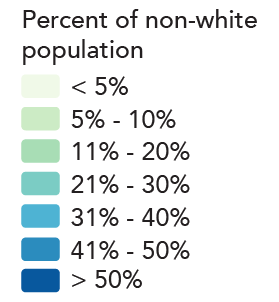
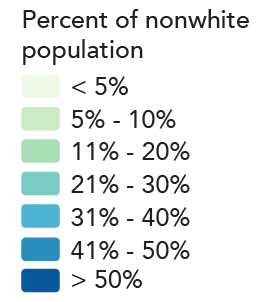
update

Changed region(s): [[0.6595, 0.0298, 0.9176, 0.0894]]

diff --git a/js/main.js b/js/main.js
@@ -1256,11 +1256,290 @@ function loadNonWhite() {
 			var whiteField = 'NONWHT_';
 			var whiteVar = tooltip[whiteField + timestamp];
 			var whiteVar_format = whiteVar*100;
+			//create variable for html to show in tooltip, bind popup on click
+			var popupHTML = "Nonwhite: "+whiteVar_format.toFixed(2)+"%";
+			feature.bindPopup(popupHTML);
+			//style for hover functionality
+			feature.on({
+				mouseover: function(){
+					feature.setStyle({"fillOpacity":"0.5", "opacity":"0.5"}); 			
+				},
+				mouseout: function(){
+					feature.setStyle({"fillOpacity":"0", "opacity":"0"}); 					
+				}
+			});
+      	});
+     });
+	//function that updates the data reflected in the tooltips
+	function updateTooltips(){
+		//test for projected years, define different tooltip data
+		if (timestamp==2020){
+			cTract.eachLayer(function(feature){
+            //define style of initial view
+              feature.setStyle({
+              	fillColor:'white',
+                fillOpacity:'0',
+                color: 'white',
+                weight: '0.5',
+                opacity: '0'
+            });
+			//define function that forces the popup to close and is not activated for projected years
+			feature.closePopup();
+			feature.unbindPopup();
+			//style for hover functionality
+			feature.on({
+				mouseover: function(){
+					feature.setStyle({"fillOpacity":"0", "opacity":"0"}); 			
+				},
+				mouseout: function(){
+					feature.setStyle({"fillOpacity":"0", "opacity":"0"}); 					
+				}
+			});
+			
+      		});
+      	//tooltip style for non-projected years	
+		}else{
+		
+			cTract.eachLayer(function(feature){
+	            //define style of initial view
+	            feature.setStyle({
+	            	fillColor:'white',
+	                fillOpacity:'0',
+	                color: 'white',
+	                weight: '0.5',
+	                opacity: '0'
+	            });
+				
+				//define path to geojson field names
+							var tooltip = feature.toGeoJSON().properties;
+			//create variable for short version of year
+			var year = timestamp.toString().substr(2,2);
+			//call ownership field and create variable and format for tooltip
+			var whiteField = 'NONWHT_';
+			var whiteVar = tooltip[whiteField + timestamp];
+			var whiteVar_format = whiteVar*100;
+			//create variable for html to show in tooltip, bind popup on click
+			var popupHTML = "Nonwhite: "+whiteVar_format.toFixed(2)+"%";
+				feature.bindPopup(popupHTML);
+				//style for hover functionality
+				feature.on({
+					mouseover: function(){
+						feature.setStyle({"fillOpacity":"0.5", "opacity":"0.5"}); 			
+					},
+					mouseout: function(){
+						feature.setStyle({"fillOpacity":"0", "opacity":"0"}); 					
+					}
+				});
+	      	});
+		}
+	}
+	//define hex bin style
+	function setStyle(){
+		//call layer and define style for each hex
+		nonwhiteLayer.eachLayer(function(layer){
+			//define short version of geojson field names		
+			var attr = layer.feature.properties;
+			//default color
+			layer.setStyle({
+				weight: 1,
+				color: 'rgba(255,255,255,1)',
+				fillOpacity: 1
+			});
+			//define vulnerability field in order to define classes for styling
+			var nonWhiteField= 'NONWHT_';
+			//conditional statement for hex bin color classification					
+			if(attr[nonWhiteField + timestamp] > 0.5){
+				layer.setStyle({
+					fillColor:"rgb(8,88,158)"
+				}); 
+			}else if(attr[nonWhiteField + timestamp] > 0.4){
+				layer.setStyle({
+					fillColor:"rgb(43,140,190)"
+				}); 
+			}else if(attr[nonWhiteField + timestamp] > 0.3){
+				layer.setStyle({
+					fillColor:"rgb(78,179,211)"
+				});
+			}else if(attr[nonWhiteField + timestamp] > 0.2){
+				layer.setStyle({
+					fillColor:"rgb(123,204,196)"
+				});
+			}else if(attr[nonWhiteField + timestamp] > 0.1){
+				layer.setStyle({
+					fillColor:"rgb(168,221,181)"
+				});	
+			}else if(attr[nonWhiteField + timestamp] >= 0.05){
+				layer.setStyle({
+					fillColor:"rgb(204,235,197)"
+				});
+			}else if(attr[nonWhiteField + timestamp] < 0.05){
+				layer.setStyle({
+					fillColor:"rgb(240,249,232)"
+				});
+						  
+			}else{
+
+			}
+			
+		});
+	}//end setStyle function
+
+	//load buttons on map (reset css display setting)
+	$("#vcr-controls").css("display","initial");
+	$("#slider").css("display","initial");
+	$("#year-label").css("display","initial");
+	$("#homeButton").css("display","initial");
+	$("#map-menu").css("display","initial");
+
+	//update values for slider
+	skipSlider.noUiSlider.updateOptions({
+		animate: true,
+		animationDuration: 3000,
+		range: {
+			'min': 1990,
+			//skip
+			'30%': 2000,
+			//skip
+			'56%': 2009,
+			'60%': 2010,
+			'64%': 2011,
+			'68%': 2012,
+			'72%': 2013,
+			'76%': 2014,
+			//'80%': 2015,
+			//'84%': 2016,
+			//'88%': 2017,
+			//'92%': 2018,
+			//'96%': 2019,
+			'max': 2020
+		},
+		snap: true,
+		start: [1990],
+		format: wNumb({
+			decimals: 0
+		})
+	});
+	//link slider values to year label html element
+	skipValues = [
+		document.getElementById('year-label'),
+	];
+	//define slider functionality
+	skipSlider.noUiSlider.on('update', function( values, handle ) {
+		//link timestamp to slider value
+		timestamp=Number(values[handle]);
+		skipValues[handle].innerHTML = values[handle];
+		//define style and tooltip data when user moves slider
+		setStyle();
+		updateTooltips();
+		//change year label html for projected years
+		if (timestamp==2020){
+			document.getElementById('year-label').innerHTML = "2020 <p>(projected)</p>";
+		} else {
+		
+		}
+	});
+	//set functionality for play button
+	playButton.addEventListener('click', function(){
+		$('#vcr-play').addClass('active');
+		play = setInterval(next, 1000);
+
+	});
+	//set functionality for pause button
+	pauseButton.addEventListener('click', function(){
+
+		clearInterval(play);
+		$('#vcr-play').removeClass('active');
+	});
+	//set functionality for refresh button
+	refreshButton.addEventListener('click', function(){
+		skipSlider.noUiSlider.set(1990);
+		updateTimestamp = 1990;
+
+
+	});
+	//setStyle();
+	//updateTooltips();
+	//define function for play animation
+	function next() {
+
+		if (timestamp == 1990) {
+	
+			updateTimestamp = timestamp + 10;
+	
+			setStyle();
+			updateTooltips();
+			skipSlider.noUiSlider.set(updateTimestamp);
+
+
+		} else if (timestamp == 2000){
+			updateTimestamp = timestamp + 9;
+	
+			setStyle();
+			updateTooltips();
+			skipSlider.noUiSlider.set(updateTimestamp);
+	
+		} else if (timestamp < 2014){
+			updateTimestamp = timestamp + 1;
+	
+			setStyle();
+			updateTooltips();
+			skipSlider.noUiSlider.set(updateTimestamp);
+		
+		} else if (timestamp >= 2014 && timestamp < 2020){
+			timestamp += 3;
+			
+			
+		} else if (timestamp == 2020){
+			updateTimestamp = timestamp + 1;
+	
+			setStyle();
+			updateTooltips();
+			skipSlider.noUiSlider.set(updateTimestamp);
+			document.getElementById('year-label').innerHTML = "2020 <p>(projected)</p>";
+		
+		} else if (updateTimestamp > 2020){
+		clearInterval(play);
+		}
+	}//end next function
+	
+}//end nonwhite function
+
+function loadNonWhiteData() {
+	//make sure that animations are reset
+	clearInterval();
+	//clear the layer group
+    activeLayers.clearLayers();
+    //grab legend element from html and update the image to the legend
+    document.getElementById('legend').innerHTML = "<img id='nonwhiteLegend' src='images/legend_nonwhite.png' alt='non white population legend'></img>";
+    //define the ownership layer and grab data from the geojson, then add this layer to the layer group
+	var nonwhiteLayer = L.mapbox.featureLayer(censusHex);
+	nonwhiteLayer.addTo(activeLayers);
+	//add census tract layer to layer group
+	cTract.addTo(activeLayers);
+	//initialize census tract layer for tooltip functionality
+	cTract.on('ready',function(layer){
+		this.eachLayer(function(feature){
+            //define style
+              feature.setStyle({
+              	fillColor:'white',
+                fillOpacity:'0',
+                color: 'white',
+                weight: '0.5',
+                opacity: '0'
+            });
+			//define path to geojson field names
+			var tooltip = feature.toGeoJSON().properties;
+			//create variable for short version of year
+			var year = timestamp.toString().substr(2,2);
+			//call ownership field and create variable and format for tooltip
+			var whiteField = 'NONWHT_';
+			var whiteVar = tooltip[whiteField + timestamp];
+			var whiteVar_format = whiteVar*100;
 			var geoFIPS = tooltip.Geo_FIPS_2;
 			var popField = 'POP_';
 			var popVar = tooltip[popField + timestamp];
 			//create variable for html to show in tooltip, bind popup on click
-			var popupHTML = "Total Tract Population: " +popVar+ "<br>Non-White: "+whiteVar_format.toFixed(2)+"%<br>FIPS ID: "+geoFIPS;
+			var popupHTML = "Total Tract Population: " +popVar+ "<br>Nonwhite: "+whiteVar_format.toFixed(2)+"%<br>FIPS ID: "+geoFIPS;
 			feature.bindPopup(popupHTML);
 			//style for hover functionality
 			feature.on({
@@ -1325,7 +1604,7 @@ function loadNonWhite() {
 			var popField = 'POP_';
 			var popVar = tooltip[popField + timestamp];
 			//create variable for html to show in tooltip, bind popup on click
-			var popupHTML = "Total Tract Population: " +popVar+ "<br>Non-White: "+whiteVar_format.toFixed(2)+"%<br>FIPS ID: "+geoFIPS;
+			var popupHTML = "Total Tract Population: " +popVar+ "<br>Nonwhite: "+whiteVar_format.toFixed(2)+"%<br>FIPS ID: "+geoFIPS;
 				feature.bindPopup(popupHTML);
 				//style for hover functionality
 				feature.on({

diff --git a/nonwhite_data.html b/nonwhite_data.html
@@ -73,6 +73,7 @@
     <div class="jumbotron">
       <div class="container">
         <h4>Non-White Population</h4>
+        <p>Any text here?</p>
         <a class="btn btn-primary " href="http://portlandhousingcenter.org/" target="_blank" role="button">TAKE ACTION &raquo;</a>
       </div>
     </div>
@@ -117,8 +118,7 @@
                 <li> <a id='afford20-button' href="affordability20.html">Home Ownership Affordability<em> 20% Down Payment</em></a></li>
                 <li> <a id='afford5-button' href="affordability5.html">Home Ownership Affordability<em> 5% Down Payment</em></a></li>
                 <li><a id='vIndex-button' href="vulnerability.html">Displacement Vulnerability</a></li>
-                <li><a id='ownership-button' href="tenure.html">Housing Tenure</a></li> 
-                <li><a id='nonwhite-button' href="nonwhite.html">Nonwhite Population</a></li>         
+                <li><a id='ownership-button' href="tenure.html">Housing Tenure</a></li>         
               </ul>
           </div> 
           <!--
@@ -157,7 +157,7 @@
 
 <script type='text/javascript'>
    	
-   	loadNonWhite();
+   	loadNonWhiteData();
    
 </script>
 

diff --git a/affordability20.html b/affordability20.html
@@ -120,7 +120,8 @@
                 <li> <a id='afford20-button' href="affordability20.html">Home Ownership Affordability<em> 20% Down Payment</em></a></li>
                 <li> <a id='afford5-button' href="affordability5.html">Home Ownership Affordability<em> 5% Down Payment</em></a></li>
                 <li><a id='vIndex-button' href="vulnerability.html">Displacement Vulnerability</a></li>
-                <li><a id='ownership-button' href="tenure.html">Housing Tenure</a></li>         
+                <li><a id='ownership-button' href="tenure.html">Housing Tenure</a></li> 
+                <li><a id='nonwhite-button' href="nonwhite.html">Nonwhite Population</a></li>         
               </ul>
           </div> 
           <!--

diff --git a/affordability5.html b/affordability5.html
@@ -119,7 +119,8 @@
                 <li> <a id='afford20-button' href="affordability20.html">Home Ownership Affordability<em> 20% Down Payment</em></a></li>
                 <li> <a id='afford5-button' href="affordability5.html">Home Ownership Affordability<em> 5% Down Payment</em></a></li>
                 <li><a id='vIndex-button' href="vulnerability.html">Displacement Vulnerability</a></li>
-                <li><a id='ownership-button' href="tenure.html">Housing Tenure</a></li>         
+                <li><a id='ownership-button' href="tenure.html">Housing Tenure</a></li> 
+                <li><a id='nonwhite-button' href="nonwhite.html">Nonwhite Population</a></li>         
               </ul>
           </div> 
           <!--

diff --git a/tenure.html b/tenure.html
@@ -118,7 +118,8 @@
                 <li> <a id='afford20-button' href="affordability20.html">Home Ownership Affordability<em> 20% Down Payment</em></a></li>
                 <li> <a id='afford5-button' href="affordability5.html">Home Ownership Affordability<em> 5% Down Payment</em></a></li>
                 <li><a id='vIndex-button' href="vulnerability.html">Displacement Vulnerability</a></li>
-                <li><a id='ownership-button' href="tenure.html">Housing Tenure</a></li>         
+                <li><a id='ownership-button' href="tenure.html">Housing Tenure</a></li> 
+                <li><a id='nonwhite-button' href="nonwhite.html">Nonwhite Population</a></li>         
               </ul>
           </div> 
           <!--

diff --git a/vulnerability.html b/vulnerability.html
@@ -118,7 +118,8 @@
                 <li> <a id='afford20-button' href="affordability20.html">Home Ownership Affordability<em> 20% Down Payment</em></a></li>
                 <li> <a id='afford5-button' href="affordability5.html">Home Ownership Affordability<em> 5% Down Payment</em></a></li>
                 <li><a id='vIndex-button' href="vulnerability.html">Displacement Vulnerability</a></li>
-                <li><a id='ownership-button' href="tenure.html">Housing Tenure</a></li>         
+                <li><a id='ownership-button' href="tenure.html">Housing Tenure</a></li> 
+                <li><a id='nonwhite-button' href="nonwhite.html">Nonwhite Population</a></li>         
               </ul>
           </div> 
           <!--

diff --git a/index.html b/index.html
@@ -110,7 +110,8 @@
                 <li> <a id='afford20-button' href="affordability20.html">Home Ownership Affordability<em> 20% Down Payment</em></a></li>
                 <li> <a id='afford5-button' href="affordability5.html">Home Ownership Affordability<em> 5% Down Payment</em></a></li>
                 <li><a id='vIndex-button' href="vulnerability.html">Displacement Vulnerability</a></li>
-                <li><a id='ownership-button' href="tenure.html">Housing Tenure</a></li>         
+                <li><a id='ownership-button' href="tenure.html">Housing Tenure</a></li> 
+                <li><a id='nonwhite-button' href="nonwhite.html">Nonwhite Population</a></li>         
               </ul>
           </div> 
     			<!--
